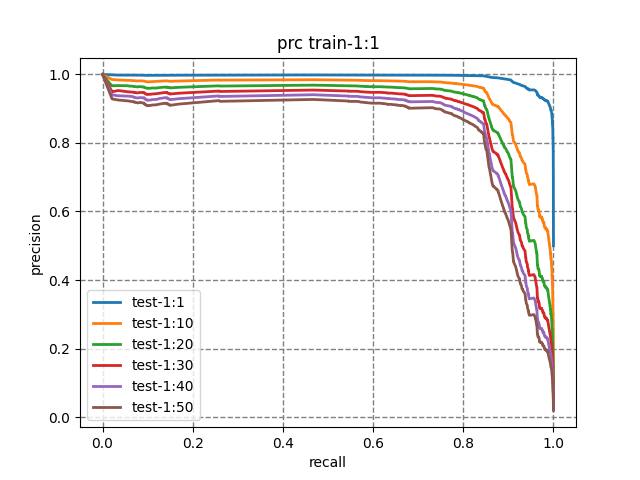
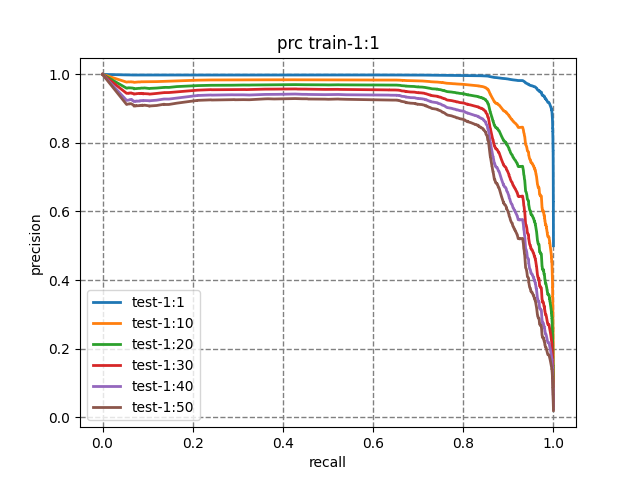
upd result

Changed region(s): [[0.1562, 0.1562, 0.875, 0.7812]]

diff --git a/train.py b/train.py
@@ -231,7 +231,7 @@ for batch_count in range(len(test_list) // batch_size):
     test_balanced_batches.append(batch.loc[balanced_batch_index])
 
 for train_disbalance in train_disbalances:   
-    
+    plt.clf()    
     X = pd.concat(
         train_balanced_batches,
         sort=False,
